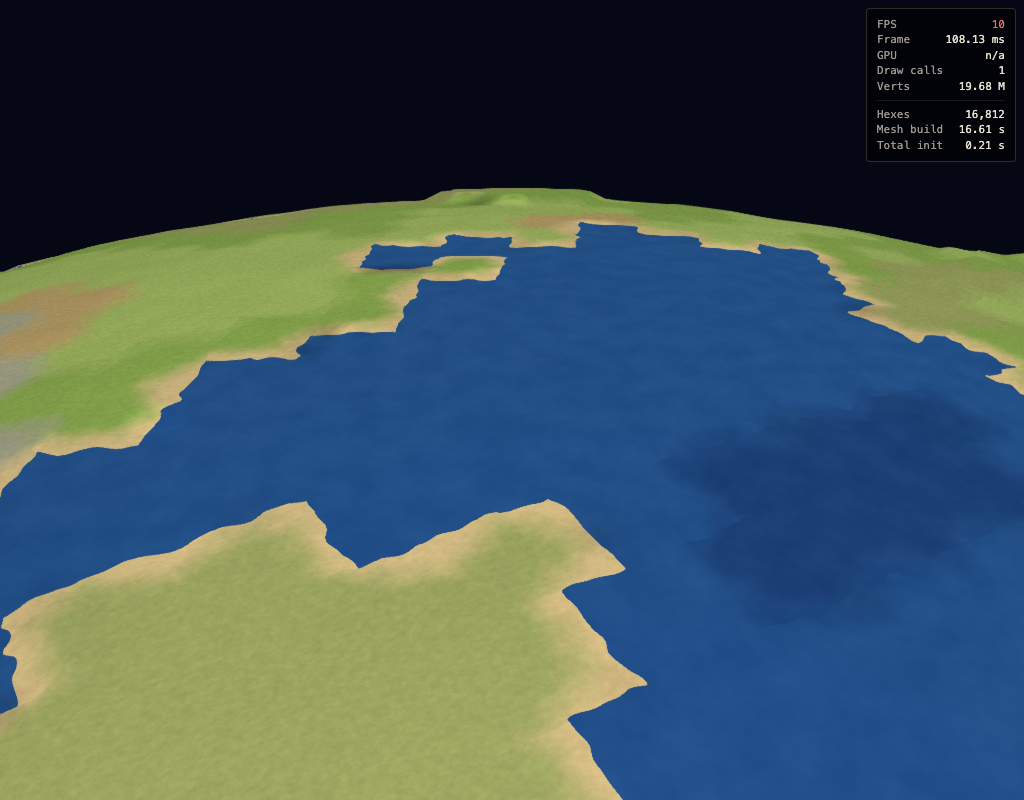
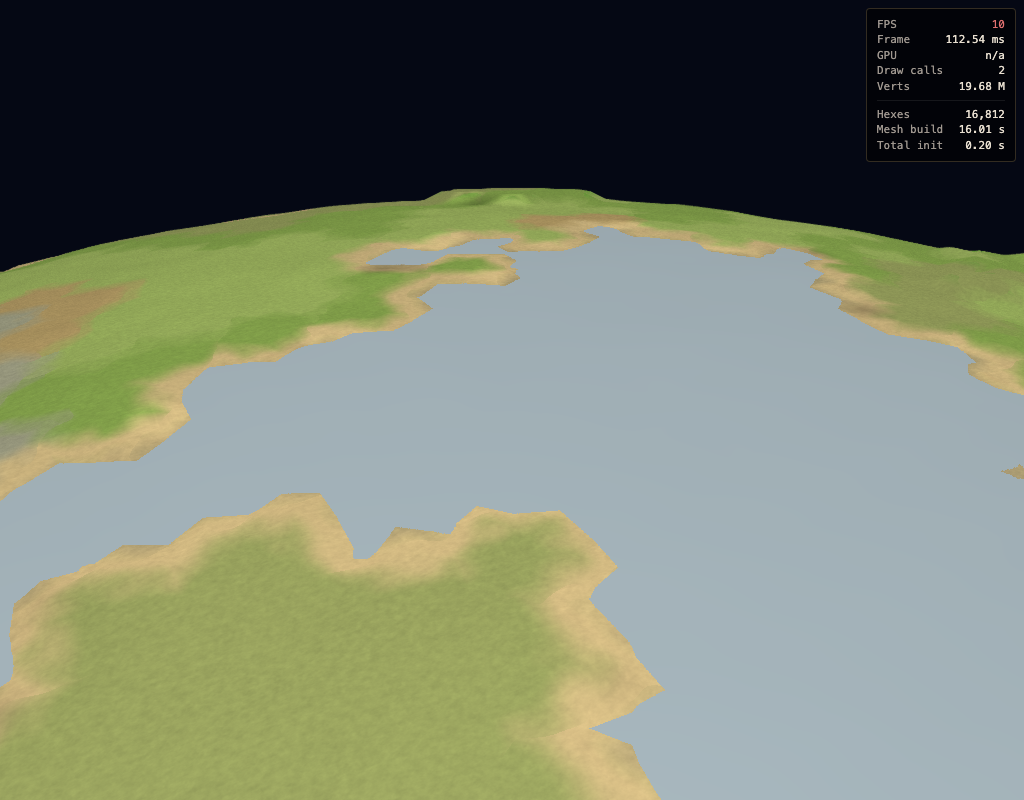
Reattach water sphere for shader-preview (smooth water surface)
The user's coast/cliff/dark-dot complaints all traced back to the same
root: shader-preview was rendering water inline per-hex (visible blocky
hex water, depth-tier seams, dark seafloor showing where it shouldn't).

This commit re-enables the legacy animated water-sphere for shader-
preview using natural WebGL depth-test (no custom displacement-aware
depth material needed). Phase 5 displacement made this geometrically
viable for the first time:
  - water hexes flattened to -0.001R (below water sphere at -0.0005R)
  - land tier 2 at 0R (above water sphere)
  - Natural depth-test: land wins where it's closer, water sphere wins
    over water hexes.

Changes:

water-material.ts:
- Add useDepthSamplerDiscard uniform (default 1.0 = legacy behavior).
  When 0, skip the sceneDepth-based discard. Foam disabled in that mode
  too (depthDiff = 0).
- Add opts.opaque to createWaterMaterial. When true, needAlphaBlending
  is false -> water-sphere participates in normal depth-write -> no
  underlying seafloor visible through transparency. alpha = 1 in that
  path.

globe.ts:
- Build a SECOND water sphere (shaderWaterSphere) at planetRadius *
  0.9995, using createWaterMaterial({ opaque: true }) and
  useDepthSamplerDiscard = 0. Render-mode toggle:
    legacy:        legacy water sphere on, shader water sphere off
    shader-debug:  both off (so debug bit-encoded pixels aren't masked)
    shader-preview: shader water sphere on, legacy off
[…]

diff --git a/src/lib/engine/shader-globe-material.ts b/src/lib/engine/shader-globe-material.ts
@@ -436,6 +436,21 @@ vec2 phase5AndPhase6Displacement(vec3 P, float ownLevel) {
         }
     }
 
+    // Hard clamps relative to the water sphere (positioned at -0.0005R,
+    // see globe.ts shaderWaterSphere):
+    //   * Land must NEVER dip below the water sphere -- otherwise water
+    //     bleeds through and looks like scattered ponds on the continent.
+    //   * Water hexes must NEVER rise above the water sphere -- otherwise
+    //     the seafloor breaks through and looks like islands in the
+    //     ocean.
+    // Buffer of 0.0002R (~1.3 km) on each side prevents z-fighting with
+    // the water sphere itself.
+    if (!ownIsWater) {
+        h = max(h, -0.0003);  // land >= -0.0003, water sphere at -0.0005
+    } else {
+        h = min(h, -0.0007);  // water <= -0.0007, water sphere at -0.0005
+    }
+
     return vec2(h, edgeDistNorm);
 }
 `;
@@ -622,18 +637,16 @@ void main() {
         procColor = vec3(0.0);
     } else {
         // Perturb the hex lookup position with a small noise displacement
-        // so coast and biome boundaries don't follow the perfect 60-degree
-        // hex edges. Amp 0.0015 unit-sphere = ~12% of hex apothem -- enough
-        // to soften coast edges (the user's "blurry intersection" was the
-        // OPPOSITE problem at amp 0.004) but small enough that inland hex
-        // shapes stay clearly hex-readable. Higher freq (120) gives finer
-        // coast wavelets rather than wide boundary deformation.
+        // so biome boundaries don't follow the perfect 60-degree hex
+        // edges. Amp 0.003 unit-sphere = ~25% of hex apothem -- enough to
+        // visibly bend the boundaries; the water-sphere overlay handles
+        // the visible coastline on its own so we don't need amp larger.
         vec3 boundaryNoise = vec3(
-            snoise(P * 120.0),
-            snoise(P * 120.0 + vec3(100.0, 0.0, 0.0)),
-            snoise(P * 120.0 + vec3(0.0, 100.0, 0.0))
+            snoise(P * 80.0),
+            snoise(P * 80.0 + vec3(100.0, 0.0, 0.0)),
+            snoise(P * 80.0 + vec3(0.0, 100.0, 0.0))
         );
-        vec3 P_lookup = normalize(P + boundaryNoise * 0.0015);
+        vec3 P_lookup = normalize(P + boundaryNoise * 0.003);
 
         computeHexLookup(P_lookup);
         float hexIdF = g_hexId;
@@ -750,39 +763,11 @@ void main() {
 `;
 
 // ── GLSL_WATER_OVERRIDE_LAST ────────────────────────────────
-// Injected at the end of the else block (between BEACH_OVERLAY's body
-// and its closing brace) so cliff and beach branches don't overwrite
-// the water hex's surface with rock textures. Sharp coast boundary --
-// water-water cross-blend only, no water-land blend.
-const GLSL_WATER_OVERRIDE_LAST = /* glsl */ `
-        if (selfIsWater) {
-            vec3 viewDir = normalize(cameraPos - vWorldPos);
-            float fresnel = pow(1.0 - max(0.0, dot(N, viewDir)), 2.0);
-            vec3 selfWater;
-            if (terrainId == 0) selfWater = mix(deepColor, shallowColor, fresnel * 0.3 + 0.1);
-            else if (terrainId == 1) selfWater = mix(deepColor, shallowColor, fresnel * 0.3 + 0.4);
-            else if (terrainId == 3) selfWater = mix(deepColor, shallowColor, fresnel * 0.3 + 0.3) + vec3(-0.02, 0.02, 0.03);
-            else selfWater = mix(deepColor, shallowColor, fresnel * 0.3 + 0.2);
-
-            vec3 waterCol = selfWater;
-            bool nbIsWater = (neighborId == 0 || neighborId == 1 || neighborId == 3);
-            if (hasCrossBlend && nbIsWater) {
-                vec3 nbWater;
-                if (neighborId == 0) nbWater = mix(deepColor, shallowColor, fresnel * 0.3 + 0.1);
-                else if (neighborId == 1) nbWater = mix(deepColor, shallowColor, fresnel * 0.3 + 0.4);
-                else nbWater = mix(deepColor, shallowColor, fresnel * 0.3 + 0.3) + vec3(-0.02, 0.02, 0.03);
-                float n1 = snoise(vWorldPos * 0.004) * 0.22;
-                float n2 = snoise(vWorldPos * 0.012) * 0.10;
-                float threshold = max(0.35 + n1 + n2, 0.08);
-                float blend = (1.0 - smoothstep(0.0, threshold, distToBorder)) * 0.45;
-                waterCol = mix(selfWater, nbWater, blend);
-            }
-            float wave = snoise(vWorldPos * 0.012 + vec3(time * 0.3, 0.0, 0.0)) * 0.012
-                       + snoise(vWorldPos * 0.04  + vec3(0.0, time * 0.2, 0.0)) * 0.006;
-            waterCol += vec3(wave);
-            procColor = waterCol;
-        }
-`;
+// Empty in the current build: the water sphere overlay handles water
+// rendering (see globe.ts:shaderWaterSphere). The shader-globe paints
+// the underwater seafloor (sand/gravel via computeTerrainColor on water
+// terrain types) -- the water-sphere covers it.
+const GLSL_WATER_OVERRIDE_LAST = /* glsl */ ``;
 
 // Strip the trailing `}` (closes the else) from GLSL_BEACH_OVERLAY so we
 // can inject the water override before that close. The legacy chunk's

diff --git a/src/lib/engine/globe.ts b/src/lib/engine/globe.ts
@@ -270,6 +270,23 @@ export async function createGlobeEngine(
 		debugMat.forceCompilation(shaderGlobe.mesh, done);
 	});
 
+	// ── Shader-preview water sphere ─────────────────────────
+	// Separate from the legacy water sphere -- this one runs without the
+	// depth-sampler discard (Babylon's depth renderer can't capture our
+	// displaced shader-globe). Relies on natural WebGL depth-test:
+	//   land tier 2/3/4 at radius >= planetRadius   --> closer to camera --> wins
+	//   water hexes at planetRadius * 0.999          --> farther --> loses to water sphere
+	// Result: water sphere shows over water hexes, hidden by land hexes.
+	const shaderWaterSphere = MeshBuilder.CreateSphere('shaderWaterSurface', {
+		diameter: EARTH_RADIUS_KM * 2 * 0.9995,
+		segments: 64,
+	}, scene);
+	const shaderWaterMat = createWaterMaterial(scene, depthTexture, { opaque: true });
+	shaderWaterMat.setFloat('useDepthSamplerDiscard', 0.0);
+	shaderWaterSphere.material = shaderWaterMat;
+	shaderWaterSphere.isPickable = false;
+	shaderWaterSphere.setEnabled(false);
+
 	report(`Globe ready: ${cells.length} cells, ${shaderGlobe.vertexCount.toLocaleString()} shader-globe verts (legacy mesh deferred)`);
 
 	// ── Picking / Painting ──────────────────────────────────
@@ -340,35 +357,35 @@ export async function createGlobeEngine(
 	function applyRenderMode(mode: RenderMode) {
 		renderMode = mode;
 		if (mode === 'legacy') {
-			// Lazy build on first switch into legacy mode. ~17 s wait the
-			// first time; cached on subsequent switches.
+			// Lazy build on first switch into legacy mode.
 			ensureLegacyBuilt();
 			if (!legacy) return;
 			legacy.mesh.setEnabled(true);
 			legacy.waterSphere.setEnabled(true);
 			shaderGlobe.mesh.setEnabled(false);
+			shaderWaterSphere.setEnabled(false);
 			depthTexture.renderList = [legacy.mesh];
 			camera.attachPostProcess(fxaa);
 		} else if (mode === 'shader-debug') {
-			// shader-debug renders raw bit-encoded IDs in mode 3; FXAA would
-			// average those bytes and corrupt the verifier output. Water
-			// sphere off so the bit-encoded debug colors aren't masked.
+			// shader-debug renders raw bit-encoded IDs in mode 3; FXAA + water
+			// sphere would mask the bytes the verifier needs to read.
 			if (legacy) { legacy.mesh.setEnabled(false); legacy.waterSphere.setEnabled(false); }
 			shaderGlobe.mesh.setEnabled(true);
 			shaderGlobe.mesh.material = debugMat;
+			shaderWaterSphere.setEnabled(false);
 			depthTexture.renderList = [];
 			camera.detachPostProcess(fxaa);
 		} else {
-			// shader-preview: real biome rendering with Phase 5/6 displacement.
-			// Water sphere stays OFF: Babylon's depth renderer uses a
-			// default vertex shader that doesn't apply our displacement,
-			// so water-sphere depth-occlusion would see the un-displaced
-			// sphere and discard everywhere. A displacement-aware custom
-			// depth material is Phase 8 work; for now water is rendered
-			// inline by shader-globe-material with a sharp coast boundary.
+			// shader-preview: real biome rendering with Phase 5/6 displacement
+			// PLUS the water sphere on top (uses natural WebGL depth test --
+			// shader-globe land hexes at radius >= planetRadius are closer to
+			// the camera than the water sphere at 0.9995R, so they win the
+			// depth test naturally; water hexes at 0.999R are farther, water
+			// sphere wins. No custom depth material needed.
 			if (legacy) { legacy.mesh.setEnabled(false); legacy.waterSphere.setEnabled(false); }
 			shaderGlobe.mesh.setEnabled(true);
 			shaderGlobe.mesh.material = shaderGlobeMat;
+			shaderWaterSphere.setEnabled(true);
 			depthTexture.renderList = [];
 			camera.attachPostProcess(fxaa);
 		}
@@ -411,6 +428,13 @@ export async function createGlobeEngine(
 			legacy.waterMat.setFloat('cameraNear', camera.minZ);
 			legacy.waterMat.setFloat('cameraFar', camera.maxZ);
 		}
+
+		// Shader-preview water sphere: same uniforms as legacy water-mat.
+		shaderWaterMat.setFloat('time', waterTime);
+		shaderWaterMat.setVector3('cameraPos', camPos);
+		shaderWaterMat.setVector3('sunDir', sunDirVec);
+		shaderWaterMat.setFloat('cameraNear', camera.minZ);
+		shaderWaterMat.setFloat('cameraFar', camera.maxZ);
 		// Phase 4 biome-shaded material: same per-frame uniforms as the
 		// legacy terrain material so legacy and shader-preview produce
 		// matching colors at every camera state.

diff --git a/src/lib/engine/water-material.ts b/src/lib/engine/water-material.ts
@@ -92,6 +92,12 @@ uniform vec3 shallowColor;
 uniform float cameraNear;
 uniform float cameraFar;
 uniform sampler2D depthSampler;
+// When 1.0, the depth-sampler-based discard runs (legacy mode -- where
+// the depth renderer captures the legacy hex-prism mesh). When 0.0, skip
+// it; rely on natural WebGL depth-test instead. Used by shader-preview
+// where Babylon's depth renderer can't capture the displaced shader-globe
+// (its vertex shader doesn't run displacement).
+uniform float useDepthSamplerDiscard;
 
 varying vec3 vWorldPos;
 varying vec3 vWorldNormal;
@@ -129,14 +135,20 @@ void main() {
     vec2 screenUV = (vScreenPos.xy / vScreenPos.w) * 0.5 + 0.5;
     float sceneDepth = texture2D(depthSampler, screenUV).r;
 
-    if (sceneDepth < vLinearDepth + 0.00015) {
-        discard;
+    if (useDepthSamplerDiscard > 0.5) {
+        if (sceneDepth < vLinearDepth + 0.00015) {
+            discard;
+        }
     }
 
     vec3 N = normalize(vWorldNormal);
     vec3 V = normalize(cameraPos - vWorldPos);
 
-    float depthDiff = max(sceneDepth - vLinearDepth, 0.0);
+    // depthDiff drives foam at coastal edges. With useDepthSamplerDiscard
+    // off, we don't have meaningful sceneDepth, so skip foam (foamEdge=0
+    // below). Phase 8 work could re-add foam via a custom displacement-
+    // aware depth pass.
+    float depthDiff = (useDepthSamplerDiscard > 0.5) ? max(sceneDepth - vLinearDepth, 0.0) : 0.0;
 
     // Fresnel
     float fresnel = 1.0 - max(dot(N, V), 0.0);
@@ -186,13 +198,22 @@ void main() {
     float spec2 = pow(max(dot(waveN, halfVec), 0.0), 32.0);
     waterCol += vec3(0.6, 0.75, 0.9) * spec2 * 0.03;
 
-    float alpha = 0.85 + fresnel * 0.15;
+    // Alpha: legacy mode uses 0.85 + fresnel * 0.15 so the underwater
+    // sandy seafloor blends through (the legacy mesh renders the
+    // seafloor first; alpha lets it tint water). In shader-preview we
+    // disable the depth-sampler discard, and the seafloor underneath is
+    // also rendered by shader-globe-material's terrain palette -- but
+    // there it's a visible sand color, so any transparency reads as
+    // blotchy "patches" through the water. Force opaque (alpha=1) when
+    // useDepthSamplerDiscard is off.
+    float alpha = (useDepthSamplerDiscard > 0.5) ? (0.85 + fresnel * 0.15) : 1.0;
 
     gl_FragColor = vec4(waterCol, alpha);
 }
 `;
 
-export function createWaterMaterial(scene: Scene, depthTexture: BaseTexture): ShaderMaterial {
+export function createWaterMaterial(scene: Scene, depthTexture: BaseTexture, opts?: { opaque?: boolean }): ShaderMaterial {
+	const opaque = opts?.opaque ?? false;
 	ShaderStore.ShadersStore['waterSurfaceVertexShader'] = VERTEX;
 	ShaderStore.ShadersStore['waterSurfaceFragmentShader'] = FRAGMENT;
 
@@ -206,10 +227,14 @@ export function createWaterMaterial(scene: Scene, depthTexture: BaseTexture): Sh
 			'sunDir', 'cameraPos', 'time',
 			'deepColor', 'shallowColor',
 			'cameraNear', 'cameraFar',
-			'waveAmp', 'waveFreq'
+			'waveAmp', 'waveFreq',
+			'useDepthSamplerDiscard',
 		],
 		samplers: ['depthSampler'],
-		needAlphaBlending: true,
+		// In opaque mode (shader-preview), disable alpha blending so the
+		// material participates in normal depth-write and the seafloor
+		// underneath isn't visible through the water surface.
+		needAlphaBlending: !opaque,
 	});
 
 	mat.setVector3('sunDir', new Vector3(1, -0.5, -0.3).normalize());
@@ -227,6 +252,10 @@ export function createWaterMaterial(scene: Scene, depthTexture: BaseTexture): Sh
 	// Camera
 	mat.setFloat('cameraNear', 1);
 	mat.setFloat('cameraFar', 1);
+
+	// Default to legacy behavior (use depth-sampler discard). globe.ts
+	// flips this to 0 when shader-preview is active.
+	mat.setFloat('useDepthSamplerDiscard', 1.0);
 
 	// Depth texture from scene depth renderer
 	mat.setTexture('depthSampler', depthTexture);
